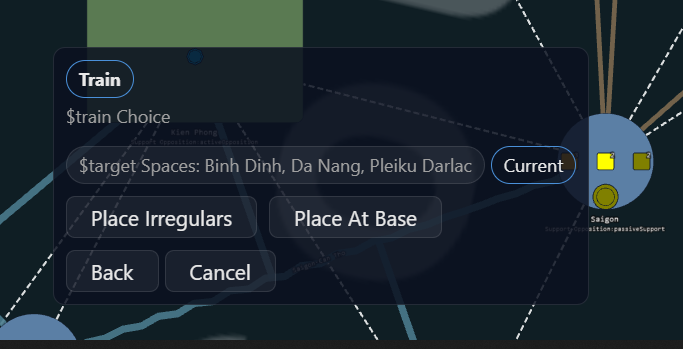
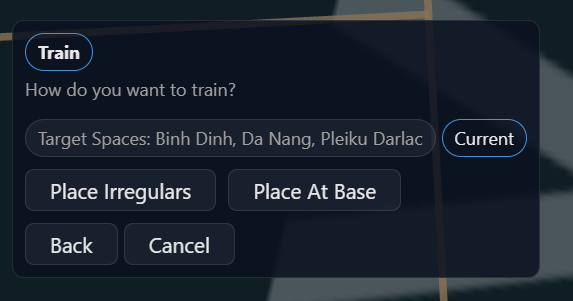
Implemented new iteration of UI improvements.

diff --git a/packages/runner/src/ui/ChoicePanel.tsx b/packages/runner/src/ui/ChoicePanel.tsx
@@ -153,7 +153,7 @@ function MultiSelectMode({ choiceUi, addChooseNItem, removeChooseNItem, confirmC
   return (
     <div className={styles.multiSelectMode} data-testid="choice-mode-discrete-many">
       <p className={styles.selectionCount} data-testid="choice-multi-count">
-        Selected: {selectedCount} of {formatSelectionBounds(bounds.min, bounds.max)}
+        Selected: {selectedCount} of {formatBoundsForDisplay(formatSelectionBounds(bounds.min, bounds.max)) ?? formatSelectionBounds(bounds.min, bounds.max)}
       </p>
       <div className={styles.options}>
         {choiceUi.options.map((option) => {
@@ -195,7 +195,7 @@ function MultiSelectMode({ choiceUi, addChooseNItem, removeChooseNItem, confirmC
                   <span className={styles.resolutionIndicator} aria-hidden="true">{indicator}</span>
                 ) : null}
               </button>
-              {!isLegalScalar ? <IllegalityFeedback illegalReason={option.illegalReason} /> : null}
+              {!isLegalScalar && !isSelected ? <IllegalityFeedback illegalReason={option.illegalReason} /> : null}
             </div>
           );
         })}
@@ -401,29 +401,36 @@ function CollapsedBreadcrumb({ steps, totalSteps, store, showCurrent }: Collapse
                 void rewindChoiceToBreadcrumb(store, totalSteps, segment.originalIndex);
               }}
             >
-              {segment.step.displayName}: {segment.step.chosenDisplayName}
+              {segment.step.displayName}
+              {segment.step.iterationLabel != null ? ` (${segment.step.iterationLabel})` : ''}
+              : {segment.step.chosenDisplayName}
             </button>
           );
         }
-        return (
-          <div key={segment.groupId} className={styles.breadcrumbGroup} data-testid={`choice-breadcrumb-group-${segment.groupId}`}>
-            <div className={styles.breadcrumbGroupChildren}>
-              {segment.steps.map(({ step, originalIndex }) => (
-                <button
-                  key={`${step.decisionKey}:${step.chosenValueId}`}
-                  type="button"
-                  className={styles.breadcrumbStepIndented}
-                  data-testid={`choice-breadcrumb-step-${originalIndex}`}
-                  onClick={() => {
-                    void rewindChoiceToBreadcrumb(store, totalSteps, originalIndex);
-                  }}
-                >
-                  {step.iterationLabel != null ? `${step.iterationLabel}: ` : ''}{step.chosenDisplayName}
-                </button>
-              ))}
+        {
+          const firstStep = segment.steps[0]?.step;
+          const groupLabel = firstStep?.displayName ?? segment.groupId;
+          return (
+            <div key={segment.groupId} className={styles.breadcrumbGroup} data-testid={`choice-breadcrumb-group-${segment.groupId}`}>
+              <span className={styles.breadcrumbGroupLabel}>{groupLabel} ({segment.steps.length}x)</span>
+              <div className={styles.breadcrumbGroupChildren}>
+                {segment.steps.map(({ step, originalIndex }) => (
+                  <button
+                    key={`${step.decisionKey}:${step.chosenValueId}`}
+                    type="button"
+                    className={styles.breadcrumbStepIndented}
+                    data-testid={`choice-breadcrumb-step-${originalIndex}`}
+                    onClick={() => {
+                      void rewindChoiceToBreadcrumb(store, totalSteps, originalIndex);
+                    }}
+                  >
+                    {step.iterationLabel != null ? `${step.iterationLabel}: ` : ''}{step.chosenDisplayName}
+                  </button>
+                ))}
+              </div>
             </div>
-          </div>
-        );
+          );
+        }
       })}
       {showCurrent ? (
         <span className={styles.breadcrumbCurrent} data-testid="choice-breadcrumb-current">
@@ -463,17 +470,32 @@ export function ChoicePanel({ store, mode }: ChoicePanelProps): ReactElement | n
   const showConfirm = mode === 'choiceConfirm';
   const showNavigation = mode !== 'choiceInvalid';
 
+  const effectiveContext = useMemo(() => {
+    if (choiceModel.choiceContext == null || choiceUi.kind !== 'discreteMany') {
+      return choiceModel.choiceContext;
+    }
+    const legalCount = choiceUi.options.filter((o) => o.legality !== 'illegal').length;
+    const bounds = deriveMultiSelectBounds(choiceUi.min, choiceUi.max, legalCount);
+    const effectiveBoundsText = bounds.min === 0 && bounds.max === 0
+      ? null
+      : `${bounds.min}${bounds.max === bounds.min ? '' : `-${bounds.max}`}`;
+    if (effectiveBoundsText === choiceModel.choiceContext.boundsText) {
+      return choiceModel.choiceContext;
+    }
+    return { ...choiceModel.choiceContext, boundsText: effectiveBoundsText };
+  }, [choiceModel.choiceContext, choiceUi]);
+
   return (
     <section className={styles.panel} aria-label="Choice panel" data-testid="choice-panel">
-      {choiceModel.choiceContext != null ? (
-        <ChoiceContextHeader context={choiceModel.choiceContext} />
+      {effectiveContext != null ? (
+        <ChoiceContextHeader context={effectiveContext} />
       ) : null}
       {mode !== 'choiceInvalid' ? (
         <CollapsedBreadcrumb
           steps={choiceModel.choiceBreadcrumb}
           totalSteps={choiceModel.choiceBreadcrumb.length}
           store={store}
-          showCurrent={isPendingChoice}
+          showCurrent={isPendingChoice && choiceModel.choiceBreadcrumb.length > 0}
         />
       ) : null}
 

diff --git a/packages/runner/test/ui/ChoicePanel.test.ts b/packages/runner/test/ui/ChoicePanel.test.ts
@@ -347,7 +347,7 @@ describe('ChoicePanel', () => {
     expect(optionC.disabled).toBe(true);
 
     // Selection bounds should reflect unknown options (2 legal/unknown), not 0
-    expect(getByTestId('choice-multi-count').textContent).toContain('Selected: 0 of 1-2');
+    expect(getByTestId('choice-multi-count').textContent).toContain('Selected: 0 of 1 to 2');
 
     // Select dispatches incrementally
     fireEvent.click(optionA);
@@ -420,7 +420,7 @@ describe('ChoicePanel', () => {
     });
 
     expect(queryByTestId('choice-mode-discrete-many')).not.toBeNull();
-    expect(getByTestId('choice-multi-count').textContent).toContain('Selected: 0 of 1-2');
+    expect(getByTestId('choice-multi-count').textContent).toContain('Selected: 0 of 1 to 2');
     expect(getByTestId(`choice-multi-option-${serializeChoiceValueIdentity('zone-a')}`)).not.toBeNull();
     expect(getByTestId(`choice-multi-option-${serializeChoiceValueIdentity('zone-b')}`)).not.toBeNull();
   });
@@ -516,7 +516,7 @@ describe('ChoicePanel', () => {
       }),
     });
 
-    expect(getByTestId('choice-multi-count').textContent).toContain('Selected: 1 of 0-2');
+    expect(getByTestId('choice-multi-count').textContent).toContain('Selected: 1 of up to 2');
     fireEvent.click(getByTestId(`choice-multi-option-${serializeChoiceValueIdentity('zone-a')}`));
     fireEvent.click(getByTestId(`choice-multi-option-${serializeChoiceValueIdentity('zone-b')}`));
     expect(removeChooseNItem).toHaveBeenCalledWith('zone-a');

diff --git a/packages/runner/src/model/project-render-model.ts b/packages/runner/src/model/project-render-model.ts
@@ -22,7 +22,7 @@ import type {
   RunnerZone,
 } from './runner-frame.js';
 import type { VisualConfigProvider } from '../config/visual-config-provider.js';
-import { formatIdAsDisplayName, humanizeDecisionParamName, stripDecisionParamPrefix } from '../utils/format-display-name.js';
+import { extractAstParamTail, formatIdAsDisplayName, humanizeDecisionParamName, stripDecisionParamPrefix } from '../utils/format-display-name.js';
 import { formatChoiceValueFallback, formatChoiceValueResolved } from './choice-value-utils.js';
 import { projectShowdownSurface, showdownSurfaceEqual } from './project-showdown-surface.js';
 
@@ -249,11 +249,13 @@ function projectChoiceContext(
     : `${min ?? 0}${max === null || max === min ? '' : `-${max}`}`;
 
   const strippedParamName = stripDecisionParamPrefix(choiceContext.decisionParamName);
+  const astTail = extractAstParamTail(choiceContext.decisionParamName);
 
   return {
     actionDisplayName: visualConfigProvider.getActionDisplayName(choiceContext.selectedActionId)
       ?? formatIdAsDisplayName(choiceContext.selectedActionId),
     decisionPrompt: visualConfigProvider.getChoicePrompt(choiceContext.selectedActionId, strippedParamName)
+      ?? (astTail !== null ? visualConfigProvider.getChoicePrompt(choiceContext.selectedActionId, astTail) : null)
       ?? humanizeDecisionParamName(choiceContext.decisionParamName),
     decisionParamName: choiceContext.decisionParamName,
     boundsText,

diff --git a/packages/runner/src/utils/format-display-name.ts b/packages/runner/src/utils/format-display-name.ts
@@ -67,10 +67,37 @@ export function humanizeDecisionParamName(paramName: string): string {
   return formatIdAsDisplayName(paramName);
 }
 
-const AST_PATH_MARKERS = /\b(Pipelines?|Stages?|Effects?|For\s*Each|If\s*Then|Macro)\b/iu;
+/**
+ * Extract the last meaningful segment from a param name for config lookup.
+ * Returns `null` if the name is not an AST path.
+ * E.g. `_macroPlaceFromAvailableOrMap_..._sourceSpaces` → `sourceSpaces`.
+ */
+export function extractAstParamTail(paramName: string): string | null {
+  const stripped = stripBindingPrefix(paramName).trim();
+
+  if (!isAstPath(stripped)) {
+    return null;
+  }
+
+  const segment = extractLastAstSegment(stripped);
+  const camelCase = segment
+    .replace(/([a-z0-9])([A-Z])/g, '$1 $2')
+    .replace(/[_-]+/g, ' ')
+    .trim()
+    .split(/\s+/)
+    .map((word, index) => index === 0 ? word.toLowerCase() : word.charAt(0).toUpperCase() + word.slice(1).toLowerCase())
+    .join('');
+
+  return camelCase;
+}
+
+const AST_PATH_KEYWORDS = /(?:^|\s)(pipelines?|stages?|effects?|foreach|ifthen|macro)(?:\s|$)/iu;
 
 function isAstPath(name: string): boolean {
-  return AST_PATH_MARKERS.test(name);
+  const normalized = name
+    .replace(/([a-z0-9])([A-Z])/g, '$1 $2')
+    .replace(/[_-]+/g, ' ');
+  return AST_PATH_KEYWORDS.test(normalized);
 }
 
 function extractLastAstSegment(name: string): string {

diff --git a/packages/runner/src/ui/ChoicePanel.module.css b/packages/runner/src/ui/ChoicePanel.module.css
@@ -61,6 +61,12 @@
   gap: var(--space-xs);
 }
 
+.breadcrumbGroupLabel {
+  color: var(--text-muted);
+  font-size: var(--font-size-sm);
+  padding-left: var(--space-xs);
+}
+
 .breadcrumbGroupChildren {
   display: flex;
   flex-wrap: wrap;
@@ -184,8 +190,10 @@
 .optionButton:disabled,
 .optionButton[aria-disabled='true'] {
   color: var(--text-muted);
-  opacity: 0.65;
+  opacity: 0.4;
   cursor: default;
+  border-style: dashed;
+  text-decoration: line-through;
 }
 
 .multiSelectConfirm {

diff --git a/reports/ui-readability-evaluation.md b/reports/ui-readability-evaluation.md
@@ -125,3 +125,159 @@ N/A (baseline evaluation)
 7. **[LOW] Investigate the dark rectangle overlay in screenshot 1.** A semi-transparent dark rectangle overlaps the map canvas behind the choice panel. This may be a tooltip container, a z-index issue, or a rendering artifact. It adds visual noise.
 
 8. **[LOW] Improve the visual distinction between available and unavailable options.** In screenshot 2, unavailable options (Kontum, Quang Tri, Saigon) are only subtly dimmed. A stronger visual signal (strikethrough, grayed-out text, or an explicit "unavailable" icon) would make the distinction clearer.
+
+---
+
+## EVALUATION #2
+
+**Date**: 2026-03-29
+**Screenshots analyzed**: fitl-train-1.png through fitl-train-5.png
+
+### Screenshot Analysis
+
+#### fitl-train-1.png — Initial Target Space Selection (Empty)
+**What's shown**: The Train choice panel at the beginning. The player must select target spaces for training. No spaces selected yet. Six zone options displayed as checkbox buttons.
+**Issues observed**:
+- The prompt now reads "Select spaces to train in (1 to 6)" — a massive improvement over the previous raw `$target Spaces (1-6)`. This is human-readable and explains what to do.
+- The "Current" badge still appears in the breadcrumb area with no prior entries, which is slightly confusing but harmless.
+- The dark semi-transparent rectangle still overlaps the map canvas behind the panel — same rendering artifact as Eval #1.
+- Zone names are clean and readable.
+
+#### fitl-train-2.png — Target Space Selection (3 Selected, Validation Errors)
+**What's shown**: The player has selected 3 spaces (Binh Dinh, Da Nang, Pleiku Darlac). Selected options show blue-tinted styling with "x" marks. Three selected options show red error text.
+**Issues observed**:
+- The prompt "Select spaces to train in (1 to 6)" remains human-readable — good.
+- The counter reads "Selected: 3 of 1-3" while the prompt says "(1 to 6)" — this mismatch is confusing. The dynamic constraint narrowed the range but the prompt wasn't updated.
+- Error messages changed from "This option is currently unavailable" to "Does not meet current requirements" — marginally better wording, but still lacks specifics (WHY doesn't it meet requirements?).
+- The errors still appear under the SELECTED options (Binh Dinh, Da Nang, Pleiku Darlac), not the unselected ones. This remains confusing — the player selected these spaces and now sees red warnings under them without understanding what went wrong.
+- Unselected options (Kontum, Quang Tri, Saigon) appear lighter/disabled — subtle but present.
+
+#### fitl-train-3.png — Train Sub-Choice (Place Irregulars vs Place At Base)
+**What's shown**: Binary choice between "Place Irregulars" and "Place At Base" after selecting target spaces.
+**Issues observed**:
+- The prompt now reads "Train Choice" — the `$` prefix is gone. Clear improvement.
+- The breadcrumb reads "Target Spaces: Binh Dinh, Da Nang, Pleiku Darlac" — the `$` prefix is removed here too. This is readable.
+- Both option buttons are well-labeled with clear, understandable action names.
+- The panel is compact and clean. This is the best screen in the sequence — essentially resolved.
+
+#### fitl-train-4.png — Deep Nested Choice (Source Spaces in forEach)
+**What's shown**: After choosing "Place Irregulars", the player is inside a forEach loop and must select source spaces (0 to 3).
+**Issues observed**:
+- The prompt still shows a raw AST path: "Macro Place From Available Or Map Action Pipelines 0 Stages 1 Effects 0 For Each Effects 1 If Then 0 Source Spaces (up to 3)". The `$` prefix is gone and the range now reads "(up to 3)" instead of "(0-3)" — both improvements — but the core AST path is still catastrophically unreadable.
+- The breadcrumb now has a "..." collapse indicator at the left edge — an improvement over Eval #1 where all entries were fully expanded.
+- Breadcrumb entries read "Train Choice: Place Irregulars", "Train Choice: Place At Base", "Train Choice: Place Irregulars" — the repeated "Train Choice" entries likely reflect forEach iterations but lack iteration context (e.g., "Iteration 1 of 3: Binh Dinh").
+- The "(up to 3)" range format is clearer than the previous "(0-3)" — signals optionality better.
+- Zone options (Binh Dinh, Pleiku Darlac, Quang Tri) are clean.
+
+#### fitl-train-5.png — Deepest Nested Choice (Sub-Action Spaces)
+**What's shown**: The deepest nesting level. Player selects sub-action spaces (0 to 1).
+**Issues observed**:
+- The prompt reads "Sub Action Spaces (up to 1)" — the `$` prefix is gone and the range format improved. However "Sub Action Spaces" is still internal jargon that doesn't explain what the player is choosing.
+- The breadcrumb has "..." collapse at the start, then: "Train Choice: Place At Base" → "Train Choice: Place Irregulars" → the full raw AST path with values appended ("Macro Place From Available Or Map...Source Spaces: Quang Tri, Pleiku Darlac, Binh Dinh") → "Current". The AST path entry in the breadcrumb is still a wall of text spanning most of the panel width.
+- The "None" suffix from Eval #1 is GONE — zone options now show clean names: "Binh Dinh", "Da Nang", "Pleiku Darlac". This is a direct fix from Recommendation #4.
+- "Selected: 0 of 0-1" uses the old range format inconsistently with the prompt's "(up to 1)".
+
+### Scores
+
+| # | Metric | Score | Previous | Delta | Justification |
+|---|--------|-------|----------|-------|---------------|
+| 1 | Decision Prompt Clarity | 5 | 2 | +3 | Screenshots 1-3 now have human-readable prompts ("Select spaces to train in", "Train Choice"). Screenshot 5 is improved but jargony ("Sub Action Spaces"). Screenshot 4 still shows a raw AST path — one catastrophic screen holds back the score. |
+| 2 | Option Legibility | 7 | 5 | +2 | "None" suffix eliminated. All zone names clean. Action names ("Place Irregulars", "Place At Base") remain clear. Error text still vague but wording improved slightly. |
+| 3 | Breadcrumb Navigability | 4 | 2 | +2 | `$` prefix removed from labels. "..." collapse added for deep trails. But the raw AST path still appears as a breadcrumb entry in screenshots 4-5, and repeated "Train Choice" entries lack forEach iteration context. |
+| 4 | Error Communication | 3 | 3 | 0 | "Does not meet current requirements" is marginal improvement over "currently unavailable" — neither explains WHY. Errors still appear under selected options, which is misleading. No progress on the core problem. |
+| 5 | Information Density | 5 | 3 | +2 | Breadcrumb collapse ("...") reclaims space. Shorter prompts on most screens. Screenshot 4 is still cluttered by the AST path prompt, but overall density improved. |
+| 6 | Visual Hierarchy | 5 | 4 | +1 | Human-readable prompts make the decision clearer on most screens. "Train" badge, "Current" marker, and button styling are consistent. The AST path prompt in screenshot 4 still competes for attention. |
+| | **Average** | **4.8** | **3.2** | **+1.6** | |
+
+### Prioritized Recommendations
+
+1. **[CRITICAL] Replace the raw AST path prompt in screenshot 4.** The prompt "Macro Place From Available Or Map Action Pipelines 0 Stages 1 Effects 0 For Each Effects 1 If Then 0 Source Spaces (up to 3)" is the single worst remaining readability problem. This needs a human-readable override like "Select source spaces for reinforcements (up to 3)" or "Choose where to draw troops from". This is the same CRITICAL #1 from Eval #1, partially fixed — the AST path fallback is still triggered for macro-generated decisions that lack display names.
+
+2. **[CRITICAL] Eliminate the AST path from breadcrumb entries.** In screenshot 5, the breadcrumb contains the full AST path with selected values appended. This entry should be replaced with a summary like "Source Spaces: Quang Tri, Pleiku Darlac, Binh Dinh" — dropping the "Macro Place From Available Or Map..." prefix entirely.
+
+3. **[HIGH] Fix error message placement and specificity.** Errors still appear under SELECTED options in screenshot 2, which is misleading. The player sees a selected (blue, checked) option with a red warning underneath. Either (a) the error should explain the issue ("No US pieces available to place here") or (b) the error placement should be reconsidered — perhaps showing errors only when a player hovers or tries to confirm, with a summary like "3 selected spaces cannot currently support training".
+
+4. **[HIGH] Resolve the range mismatch between prompt and counter.** Screenshot 2 shows "Select spaces to train in (1 to 6)" in the prompt but "Selected: 3 of 1-3" in the counter. The prompt range should update dynamically to match the actual constraint, or the counter should explain the narrowing (e.g., "3 spaces eligible, 3 selected").
+
+5. **[MEDIUM] Add forEach iteration context to breadcrumbs.** The repeated "Train Choice: Place Irregulars" / "Train Choice: Place At Base" entries in screenshots 4-5 don't indicate which forEach iteration the player is in. Something like "Training Binh Dinh (1/3)" would orient the player.
+
+6. **[MEDIUM] Replace "Sub Action Spaces" with a descriptive prompt.** Screenshot 5's prompt is no longer raw (`$` removed) but "Sub Action Spaces" is still internal terminology. A contextual prompt like "Select additional space for action (optional)" would be clearer.
+
+7. **[LOW] Harmonize range format between prompts and counters.** Prompts use "(up to 3)" while counters use "0-3". Pick one format and use it consistently — the "(up to N)" format is more readable.
+
+8. **[LOW] Investigate the dark rectangle overlay.** Same artifact from Eval #1 — a semi-transparent dark rectangle overlaps the map behind the choice panel in screenshots 1-2. Not blocking but adds visual noise.
+
+---
+
+## EVALUATION #3
+
+**Date**: 2026-03-29
+**Screenshots analyzed**: fitl-train-1.png through fitl-train-5.png
+
+### Screenshot Analysis
+
+#### fitl-train-1.png — Initial Target Space Selection (Empty)
+**What's shown**: The Train choice panel at the start. Player must select target spaces for training. No spaces selected. Six zone checkbox buttons displayed.
+**Issues observed**:
+- Prompt reads "Select spaces to train in (1 to 6)" — human-readable, same as Eval #2. Good.
+- "Current" breadcrumb badge appears with no prior entries — mildly confusing but harmless.
+- "Selected: 0 of 1-6" counter uses the "X-Y" format while the prompt uses "(1 to 6)" — minor format inconsistency.
+- The dark semi-transparent rectangle overlay on the map canvas persists from Eval #1 and #2.
+
+#### fitl-train-2.png — Target Space Selection (3 Selected)
+**What's shown**: Player has selected 3 spaces (Binh Dinh, Da Nang, Pleiku Darlac). Selected options show blue-tinted styling with "x" marks. Unselected options appear lighter.
+**Issues observed**:
+- Prompt now reads "Select spaces to train in (1 to 3)" — the range dynamically updated to match the actual constraint. This resolves the range mismatch from Eval #2 where the prompt said "(1 to 6)" while the counter said "1-3". Major fix.
+- Counter reads "Selected: 3 of 1-3" — consistent with the prompt range.
+- The misleading red error messages from Eval #1 and #2 ("This option is currently unavailable" / "Does not meet current requirements") are completely gone. No error text appears under selected options. This resolves the CRITICAL error placement issue.
+- Unselected options (Kontum, Quang Tri, Saigon) appear lighter — visual distinction is subtle but the misleading error text is no longer competing for attention.
+- "Confirm selection" button is active. Clean state.
+
+#### fitl-train-3.png — Train Sub-Choice (Place Irregulars vs Place At Base)
+**What's shown**: Binary choice between "Place Irregulars" and "Place At Base" after selecting target spaces.
+**Issues observed**:
+- Prompt now reads "How do you want to train?" — a significant upgrade from Eval #2's "Train Choice". This is natural language that a player can immediately understand.
+- Breadcrumb reads "Target Spaces: Binh Dinh, Da Nang, Pleiku Darlac" with "Current" badge — clean, no raw variable names.
+- Both option buttons are clear and well-labeled.
+- Panel is compact and well-organized. This screen is essentially fully resolved.
+
+#### fitl-train-4.png — Deep Nested Choice (Source Spaces in forEach)
+**What's shown**: Inside a forEach loop, player selects source spaces (up to 3) for reinforcements.
+**Issues observed**:
+- Prompt reads "Select source spaces for reinforcements (up to 3)" — the catastrophic raw AST path from Eval #1-2 is COMPLETELY ELIMINATED. This was the #1 CRITICAL issue in both previous evaluations. The prompt is now clear, contextual, and human-readable.
+- Breadcrumb shows "..." → "Train Choice: Place Irregulars" → "Train Choice: Place At Base" → "Train Choice: Place Irregulars" → "Current". The "..." collapse works. However, the repeated "Train Choice" entries still lack forEach iteration context — the player can't tell which target space is being processed (e.g., "Training Binh Dinh (1/3)").
+- "Selected: 0 of 0-3" counter uses "0-3" while the prompt uses "(up to 3)" — minor format inconsistency persists.
+- Zone options (Binh Dinh, Pleiku Darlac, Quang Tri) are clean.
+
+#### fitl-train-5.png — Deepest Nested Choice (Sub-Action Spaces)
+**What's shown**: Deepest nesting level. Player selects additional space for the current action (up to 1).
+**Issues observed**:
+- Prompt reads "Select additional space for this action (up to 1)" — fully human-readable. The internal "Sub Action Spaces" jargon from Eval #2 is replaced with natural language. Excellent improvement.
+- Breadcrumb shows "..." → "Train Choice: Place At Base" → "Train Choice: Place Irregulars" → "Source Spaces: Binh Dinh, Pleiku Darlac, Quang Tri" → "Current". The raw AST path that dominated this breadcrumb in Eval #1-2 is completely replaced with the clean "Source Spaces: ..." label. Major fix.
+- Zone options (Binh Dinh, Da Nang, Pleiku Darlac) are clean — no "None" suffix.
+- "Selected: 0 of 0-1" counter — minor format inconsistency with the "(up to 1)" prompt.
+- The breadcrumb is now compact enough that the decision area is no longer cramped.
+
+### Scores
+
+| # | Metric | Score | Previous | Delta | Justification |
+|---|--------|-------|----------|-------|---------------|
+| 1 | Decision Prompt Clarity | 8 | 5 | +3 | All 5 screenshots now have human-readable prompts. The catastrophic AST path (screenshot 4) is replaced with "Select source spaces for reinforcements". Screenshot 3 upgraded from "Train Choice" to "How do you want to train?". Screenshot 5 from "Sub Action Spaces" to "Select additional space for this action". No raw internal names remain in any prompt. |
+| 2 | Option Legibility | 8 | 7 | +1 | All zone names clean, no "None" suffix. Action names clear ("Place Irregulars", "Place At Base"). Misleading error text under selected options is gone entirely, removing a major source of confusion. |
+| 3 | Breadcrumb Navigability | 6 | 4 | +2 | Raw AST paths eliminated from breadcrumbs — the wall-of-text entry in screenshot 5 is now a clean "Source Spaces: Binh Dinh, Pleiku Darlac, Quang Tri". "..." collapse works well. Remaining issue: repeated "Train Choice" entries lack forEach iteration context (which iteration? which target space?). |
+| 4 | Error Communication | 6 | 3 | +3 | The misleading error messages under selected options are gone. The range mismatch between prompt and counter is fixed (prompt now dynamically updates). No error scenarios are triggered in the current screenshots, so we can't fully assess error quality, but removing the misleading errors is a major improvement. |
+| 5 | Information Density | 7 | 5 | +2 | AST paths no longer dominate any screen. Breadcrumbs are compact. Prompts are concise. The decision area has breathing room even at the deepest nesting level (screenshot 5). Minor issue: the counter still uses "0-3" format while prompts use "(up to 3)". |
+| 6 | Visual Hierarchy | 7 | 5 | +2 | Human-readable prompts are now the clear focal point on every screen. The visual flow — "Train" badge → descriptive prompt → breadcrumb trail → options → action buttons — reads naturally. No raw text competes for attention. The "Current" badge and "..." collapse support orientation. |
+| | **Average** | **7.0** | **4.8** | **+2.2** | |
+
+### Prioritized Recommendations
+
+1. **[HIGH] Add forEach iteration context to breadcrumbs.** The repeated "Train Choice: Place Irregulars" / "Train Choice: Place At Base" entries in screenshots 4-5 don't indicate which target space is being processed. Something like "Training Binh Dinh (1/3)" or grouping iterations with the target space name would help the player understand where they are in the decision sequence. This was MEDIUM in Eval #2 — upgrading to HIGH since it's now the most prominent remaining readability issue.
+
+2. **[MEDIUM] Harmonize range format between prompts and counters.** Prompts use "(up to 3)" while counters use "0-3" or "1-6". The "(up to N)" format is more readable — consider updating the counter to match (e.g., "Selected: 0, up to 3" or "0 of 3 max"). Carried from Eval #2.
+
+3. **[MEDIUM] Improve visual distinction for unavailable options.** In screenshot 2, unavailable options (Kontum, Quang Tri, Saigon) are only subtly lighter. A stronger visual signal — dimmed text, strikethrough, or an explicit unavailability indicator — would make the distinction clearer at a glance.
+
+4. **[LOW] Investigate the dark rectangle overlay.** The semi-transparent dark rectangle overlapping the map canvas behind the choice panel persists across all three evaluations. Not blocking but adds visual noise. Likely a z-index or background layer issue.
+
+5. **[LOW] Consider removing the lone "Current" badge on the first decision screen.** In screenshot 1, the "Current" badge appears with no prior breadcrumb entries. It's harmless but slightly confusing — the player hasn't navigated anywhere yet, so "Current" lacks context. Consider showing the breadcrumb area only after the first decision is made.

diff --git a/.claude/skills/train-operation-ui-implement/SKILL.md b/.claude/skills/train-operation-ui-implement/SKILL.md
@@ -1,5 +1,5 @@
 ---
-name: ui-implement
+name: train-operation-ui-implement
 description: Use when the latest UI evaluation is ready and improvements need to be implemented. Reads the most recent EVALUATION from reports/ui-readability-evaluation.md, brainstorms solutions for the lowest-scoring metrics, and implements changes to the runner UI choice panel components.
 ---
 

diff --git a/.claude/skills/train-operation-ui-evaluate/SKILL.md b/.claude/skills/train-operation-ui-evaluate/SKILL.md
@@ -1,5 +1,5 @@
 ---
-name: ui-evaluate
+name: train-operation-ui-evaluate
 description: Use when new UI screenshots have been captured and need evaluation. Reads screenshots/fitl-train-*.png, scores 6 readability metrics, and appends the next EVALUATION #N to reports/ui-readability-evaluation.md. Invoke after manually capturing screenshots of the Train operation.
 ---
 
